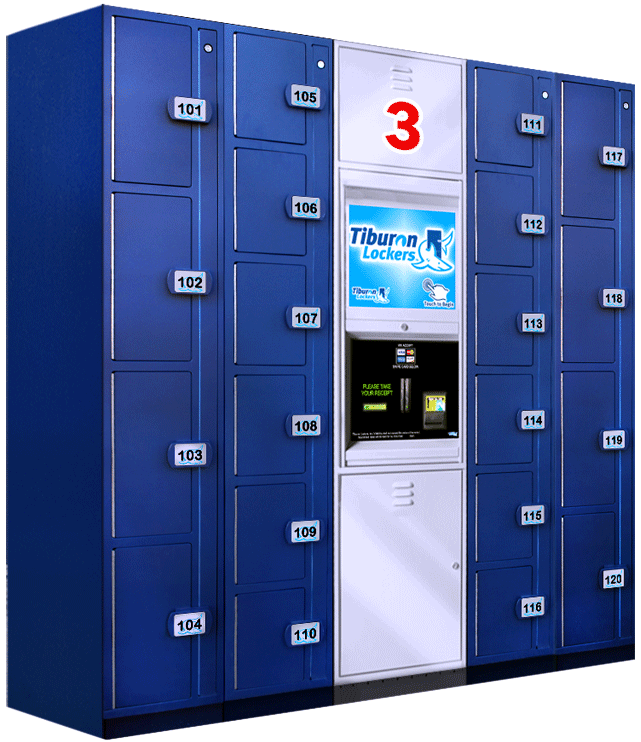
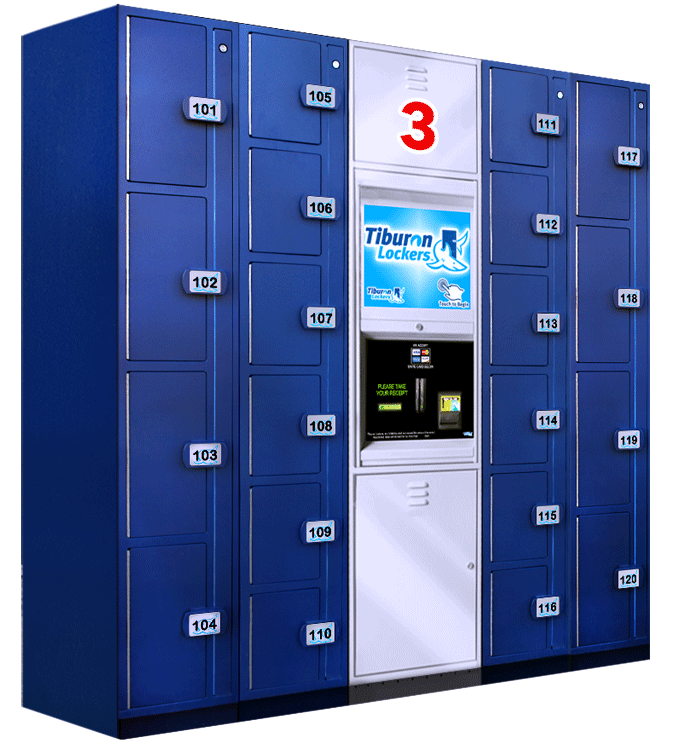
pic swap on about, tweaks + fixes to css mobile, small html fixes

Changed region(s): [[0.4368, 0.031, 0.9984, 0.9609], [0.0, 0.0, 0.3744, 1.0], [0.2184, 0.9609, 0.2496, 0.9919]]

diff --git a/resources/css/queries.css b/resources/css/queries.css
@@ -312,6 +312,8 @@ div.icon-row {padding: 1%;}
 /* Small tablet to big tablet: from 768px to 1023px */
 @media only screen and (max-width: 865px) {
 
+.hero-pattern-2 {padding-top: 60px;}
+
 .case-pad-top {padding-top: 80px;}
 
 .contact-copy {font-size: 16px;}
@@ -387,6 +389,7 @@ h3 ul {  margin: 10px 50px 10px 50px;}
     margin-bottom: 50px;
 }
 
+.protech-banner,
 .contact-banner,
 .faq-banner,
 .coin-banner,
@@ -761,7 +764,7 @@ ul.bullets2 h2 { padding: 0 5px 0 25px;
 .box-specs {
 margin-top: 6vh;
 width: 100%;
-margin-bottom: 25px;
+margin-bottom: 6vh;
 }
 
 .box-100-wide {width: 100%;}
@@ -883,9 +886,9 @@ iframe {
     width: 80vw;
 }
 
-        #contact-md { order: 2; }
-#contact-corp { order: 1; }
-#contact-cnd { order: 3; }
+#contact-md {order: 2;}
+#contact-corp {order: 1;}
+#contact-cnd {order: 3;}
 
 .footer-width {
     margin-left: 20%;
@@ -949,6 +952,7 @@ margin-bottom: 25px;
 h3.case-study,
 .advant-header {font-size: 5.5vw;}
 
+.protech-banner,
 .coin-banner,
 .contact-banner,
 .banner-cross,
@@ -1123,7 +1127,7 @@ div .btn-ele-sizes:visited {
     padding-right: 6vw;
 }
 
-.ele-bot-up-large {font-size: 6.2vw;}
+.ele-bot-up-large {font-size: 9vw;}
 
 .icon-advant-big {
     font-size: 12vw;
@@ -1316,6 +1320,7 @@ h2 {margin: 9% 0 6% 0;}
 
 .h2-form:after {margin-bottom: 60px;}
 
+.protech-banner,
 .coin-banner,
 .contact-banner,
 .banner-cross,
@@ -1401,14 +1406,37 @@ label,
 /* Small phones: from 300px to 480px */
 @media only screen and (max-width: 333px) {
 
-    ul.site-map li {padding-top: 8%;}
+.new-feats-par,
+.new-feats-par2 {
+    font-size: 1.5vh;
+    display: initial;
+}
 
-    .slider-text {top: 41.3%;}
+.new-feats-num {font-size: 2vh;}
 
-    .ba-slider img,
-    .ba-slider-1 img,
-    .ba-slider-2 img,
-    .ba-slider-3 img {max-width: 200px;}
+.new-feats-par {
+padding-bottom: 2vh;
+font-size: 1.5vh;
+width: 100%;
+margin-left: 0;
+}
+
+.locker-specs-bg {height: auto;}
+
+.new-feats-head {
+    font-size: 3vh;
+    width: 98%;
+    padding-bottom: 2vh;
+}
+
+ul.site-map li {padding-top: 8%;}
+
+.slider-text {top: 41.3%;}
+
+.ba-slider img,
+.ba-slider-1 img,
+.ba-slider-2 img,
+.ba-slider-3 img {max-width: 200px;}
 }
 
 /* TINY: from 0px to 269px */

diff --git a/about.html b/about.html
@@ -3,6 +3,7 @@
 <head>
     <meta charset="utf-8">
     <meta name="viewport" content="width=device-width, initial-scale=1.0">
+    <link href="https://unpkg.com/ionicons@4.5.10-0/dist/css/ionicons.min.css" rel="stylesheet">
     <link rel="stylesheet" type="text/css" href="vendors/css/normalize.css">
     <link rel="stylesheet" type="text/css" href="vendors/css/grid.css">
     <link rel="stylesheet" type="text/css" href="resources/css/style.css">
@@ -207,7 +208,7 @@ These countless hours of work and the quality of our lockers makes Tiburon an in
         <div class="row about-pic-center">
         
             <div class="span-3-of-7 full-width animate__animated js--fade-in-3">
-            <img class="earn-more-pic" alt="Tiburon Lockers goes to IAAPA and water theme park ski resort" src="resources/img/iaapa-18.jpg">
+            <img class="earn-more-pic" alt="Tiburon Lockers goes to IAAPA and water theme park ski resort" src="resources/img/advant-lockers.jpg">
             </div>
 
             <div class="span-1-of-7 full-width about-center-red contact-banner-mar">
@@ -215,7 +216,7 @@ These countless hours of work and the quality of our lockers makes Tiburon an in
             </div>
 
             <div class="span-3-of-7 full-width animate__animated js--fade-in-3">
-                <img class="earn-more-pic" alt="Tiburon Lockers fits indoors or outdoors" src="resources/img/advant-lockers.jpg">
+                <img class="earn-more-pic" alt="Tiburon Lockers fits indoors or outdoors" src="resources/img/iaapa-18.jpg">
             </div>
             
         </div>

diff --git a/faq.html b/faq.html
@@ -27,7 +27,7 @@
             <div class="row">
                 <a href="index.html"><img src="resources/img/tib-side-logo.png" alt="Tiburon Lockers Logo" class="logo-black"></a>
                 <a href="index.html"><img src="resources/img/tib-side-logo-wh.png" alt="Tiburon Lockers Logo" class="logo"></a>
-                <a class="mobile-nav-icon js--nav-icon ml-auto"><i class="ion-md-reorder "></i></a>
+                <a class="mobile-nav-icon js--nav-icon ml-auto"><i class="ion-md-reorder"></i></a>
                     <ul class="main-nav js--main-nav ml-auto" id="nav-items">
 
                         <li class="sticky-mobile-fc no-left-margin nav-margin-fix">
@@ -600,7 +600,7 @@ Lockers, like most things, will eventually break or malfunction - you need a way
 
 <section class="faq-wave-bg">
     <div class="row">    
-        <div class="col js--section-intro faq-bottom-text faq-pad-fix">
+        <div class="col faq-bottom-text faq-pad-fix">
             <div class="box-22">
             <i class="far fa-question-circle icon-advant-tech icon-big addt-q-icon"></i>
             <h3 class="addt-qs-marg">Additional questions?</h3>

diff --git a/lockers-ele.html b/lockers-ele.html
@@ -145,9 +145,8 @@
     </div>
 </section>
 
-<section class="section-features">
+<section class="section-features case-pad-top">
     <div class="row">
-
             <div class="col span-1-of-3 box">
                     <ion-i class="icon ion-md-desktop icon-big"></ion-i>
                         <h3>Fair<br>Share<br>Software</h3>
@@ -372,7 +371,6 @@
             </div>
         </div>
     </div>
-
     <h2 class="everything-bot-mar">Join now and fully update your locker program</h2>
 </section>
 

diff --git a/protech-lockers.html b/protech-lockers.html
@@ -3,6 +3,7 @@
 <head>
     <meta charset="utf-8">
     <meta name="viewport" content="width=device-width, initial-scale=1.0">
+    <link href="https://unpkg.com/ionicons@4.5.10-0/dist/css/ionicons.min.css" rel="stylesheet">
     <link rel="stylesheet" type="text/css" href="vendors/css/normalize.css">
     <link rel="stylesheet" type="text/css" href="vendors/css/grid.css">
     <link rel="stylesheet" type="text/css" href="resources/css/style.css">

diff --git a/index.html b/index.html
@@ -160,7 +160,7 @@ Our dependable locker systems are proven to drive your locker revenue to its pea
     </div>
 </div>
 
-<section class="section-features js--section-features hero-wiggle">
+<section class="section-features js--section-features hero-wiggle case-pad-top">
     <div class="row animate__animated js--back-in-up-1">
         <div class="col span-1-of-3 box">
             <ion-i class="icon ion-md-cash icon-big"></ion-i>
